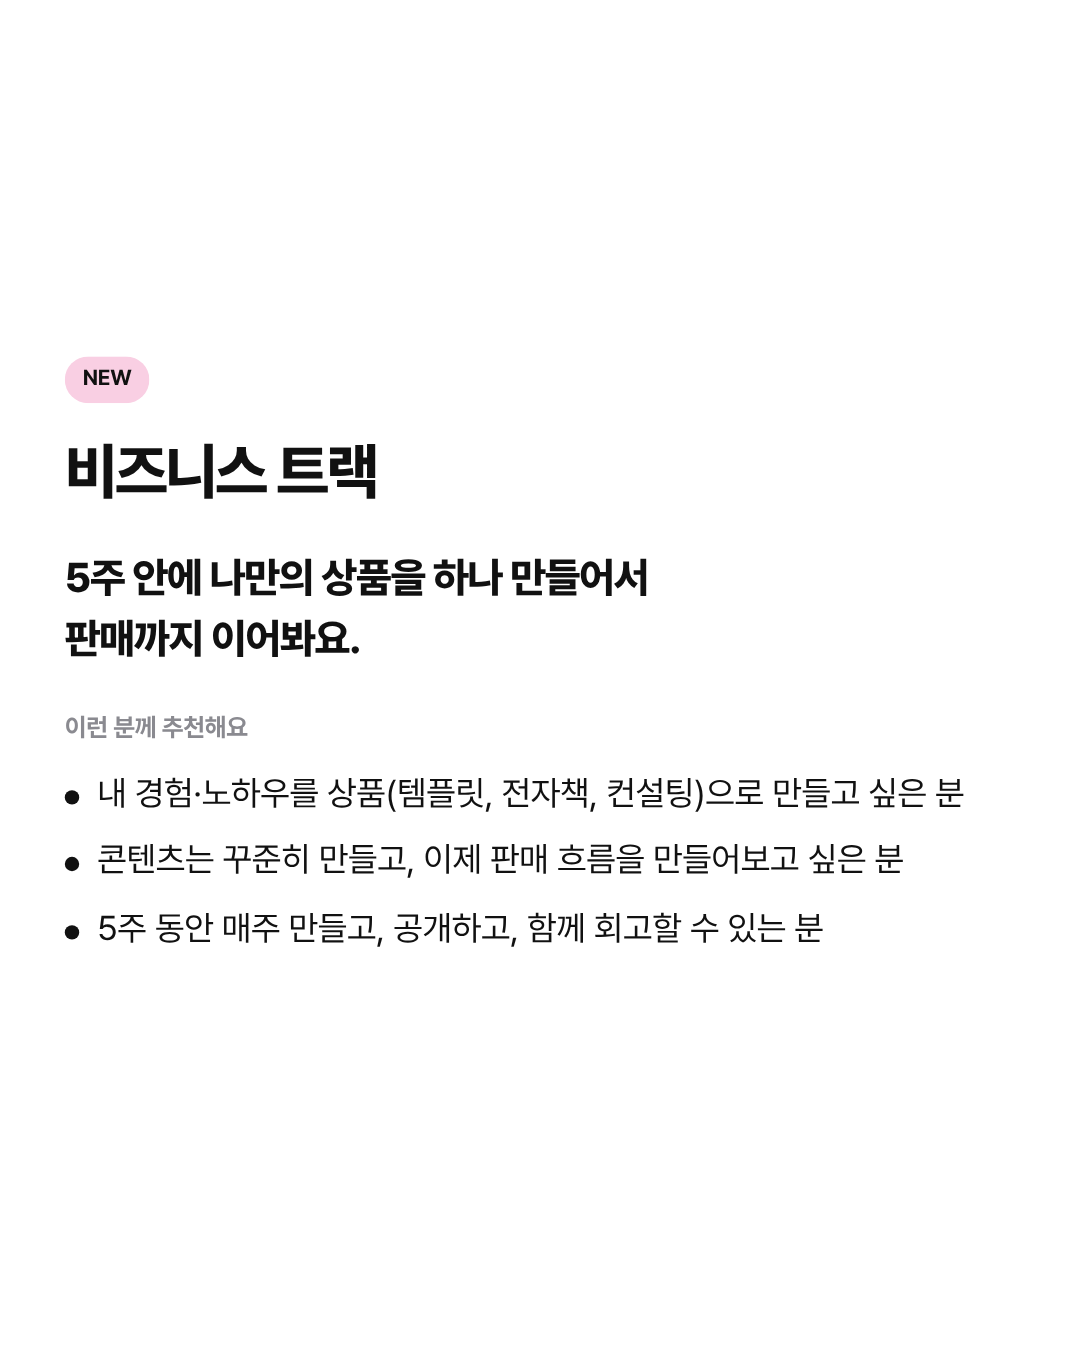
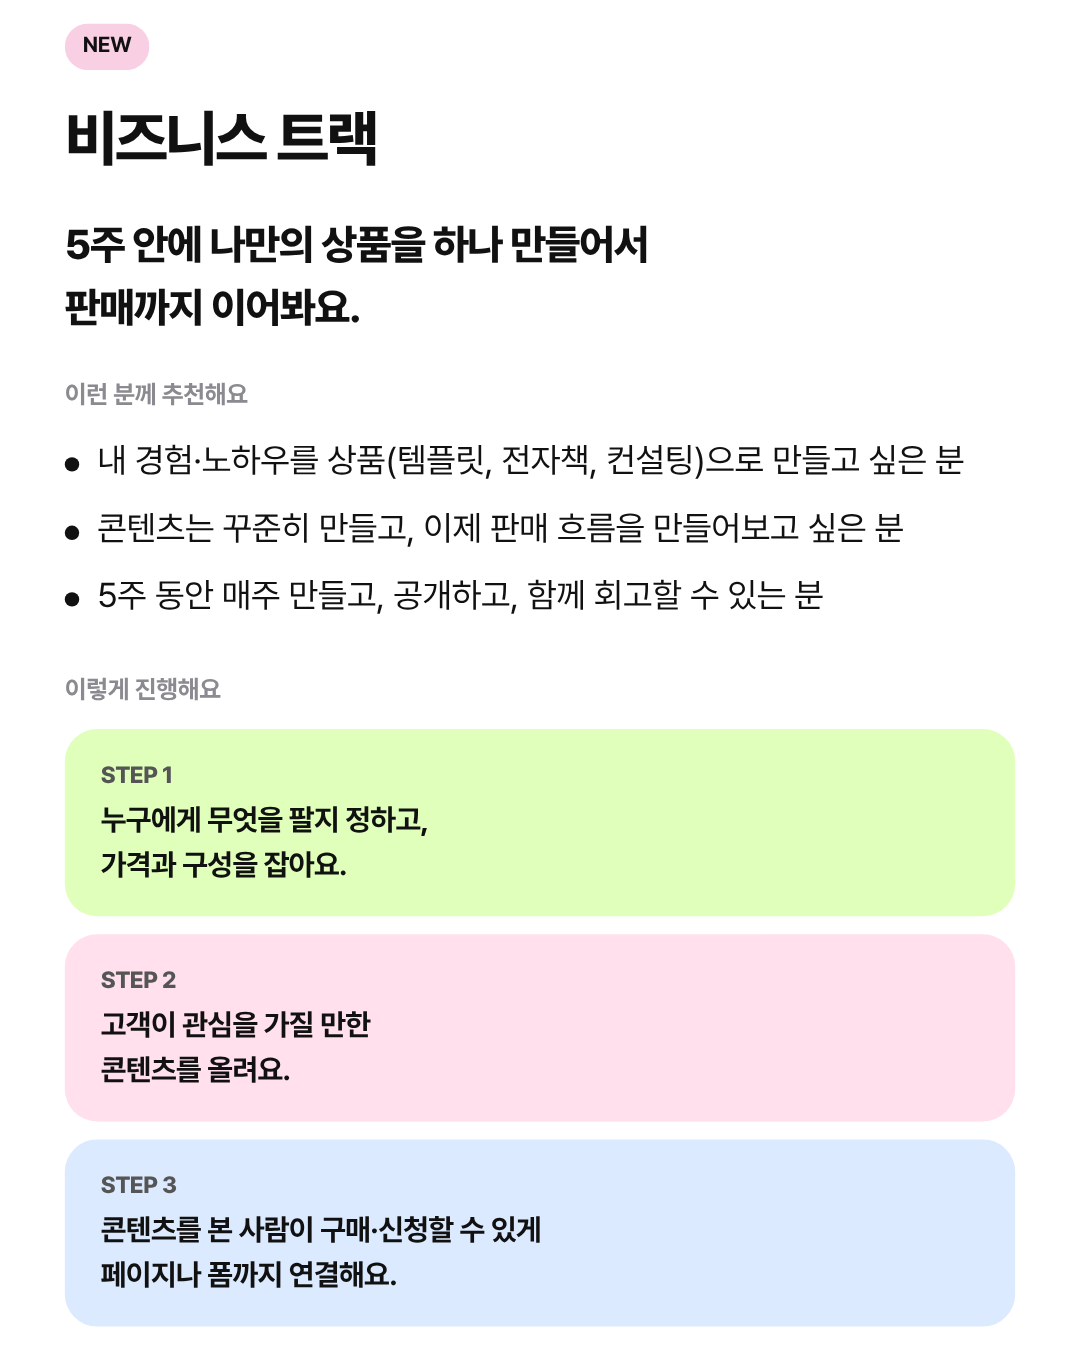
일반 트랙 활동 태그 제거, 비즈니스 트랙 진행 방식 추가
Claude-Session: https://claude.ai/code/session_01XqYr6RvsLFwt1wzFyjbYPu

diff --git a/cardnews/render_page_scenes.js b/cardnews/render_page_scenes.js
@@ -148,7 +148,7 @@ const SCHED_CSS = '#schedule h2{font-size:34px} #schedule .hd{margin-bottom:16px
       <div class="tk biz2"><span class="badge new">NEW</span><h3>비즈니스 트랙</h3><p>5주 안에 내 상품 하나를 만들고, 판매를 열어봅니다. 소수로 진행해요.</p><ul class="chk"><li>상품 구성 · 가격 설계</li><li>판매 콘텐츠 · 구매/신청 페이지</li><li>4주차 판매 시작</li><li>첫 판매 회고 · 다음 액션 정리</li></ul></div></div>` });
 
     // 7b 일반 트랙: 간결하게(추천 대상 + 활동만, 커리큘럼 제외)
-    const col = (name, tag, rec, act) => `<div class="gcol"><h3>${name}</h3><p class="gt">${tag}</p><p class="gl">이런 분께 추천해요</p><ul class="chk">${rec.map(x => `<li>${x}</li>`).join('')}</ul><div class="pills">${act.map(x => `<span>${x}</span>`).join('')}</div></div>`;
+    const col = (name, tag, rec, act) => `<div class="gcol"><h3>${name}</h3><p class="gt">${tag}</p><p class="gl">이런 분께 추천해요</p><ul class="chk">${rec.map(x => `<li>${x}</li>`).join('')}</ul></div>`;
     await customStill(b, '07b_레클에는 2-track이 있어요_일반 트랙', { W: 640, H: 800,
       css: '#cs{padding:44px 32px} #cs .top{margin-bottom:22px} #cs .top h2{font-size:34px;font-weight:800;letter-spacing:-.045em;margin:10px 0 8px} #cs .top p{font-size:16px;color:#4a4a52;margin:0;line-height:1.55} #cs .g2{display:grid;grid-template-columns:1fr 1fr;gap:14px} #cs .gcol{background:#f6f6f7;border-radius:22px;padding:24px 22px 22px} #cs .gcol h3{font-size:26px;margin:0 0 6px;letter-spacing:-.04em} #cs .gt{font-size:14.5px;font-weight:700;line-height:1.45;margin:0 0 18px;color:#4a4a52} #cs .gl{font-size:13px;font-weight:700;color:#8a8a90;margin:0 0 10px} #cs .chk{margin:0 0 22px;gap:9px} #cs .chk li{font-size:15.5px;line-height:1.5;padding-left:18px;color:#111} #cs .chk li::before{width:7px;height:7px;top:.7em} #cs .pills{display:flex;flex-wrap:wrap;gap:7px} #cs .pills span{background:#fff;border-radius:99px;padding:7px 13px;font-size:14px;font-weight:700}',
       html: `<div class="top"><span class="badge req">비기너 / 빌더</span><h2>일반 트랙</h2><p>내 이야기를 콘텐츠로 만들고,<br>꾸준히 운영할 방향을 잡아요.</p></div><div class="g2">`
@@ -157,9 +157,9 @@ const SCHED_CSS = '#schedule h2{font-size:34px} #schedule .hd{margin-bottom:16px
 
     // 7c 비즈니스 트랙: 간결하게
     await customStill(b, '07c_레클에는 2-track이 있어요_비즈니스 트랙', { W: 600, H: 750,
-      css: '#cs{padding:44px 36px} #cs h2{font-size:34px;font-weight:800;letter-spacing:-.045em;margin:10px 0 14px} #cs .lead{font-size:23px;line-height:1.5;font-weight:800;margin:0 0 20px;letter-spacing:-.03em} #cs .ex{font-size:14.5px;font-weight:700;color:#3b6300;background:#e0ffba;border-radius:12px;padding:10px 14px;margin:-10px 0 22px;align-self:flex-start} #cs .sm{font-size:15px;color:#8a8a90;margin:0 0 26px;font-weight:600} #cs .gh{font-size:14px;font-weight:700;color:#8a8a90;margin:0 0 10px} #cs .chk{margin:0 0 22px;gap:8px} #cs .chk li{font-size:19px;line-height:1.55;color:#111} #cs .chk li::before{top:.68em} #cs .tline{margin:4px 0 0} #cs .tline li{padding:0 0 11px 32px} #cs .tline li:last-child{padding-bottom:0} #cs .tline h4{font-size:17.5px;margin:1px 0 0;letter-spacing:-.03em} #cs .tline .wl{font-size:12.5px} #cs .tline li::after{top:20px;left:5px} #cs .tline li::before{width:12px;height:12px;border-width:2.5px}',
+      css: '#cs{padding:44px 36px} #cs h2{font-size:34px;font-weight:800;letter-spacing:-.045em;margin:10px 0 14px} #cs .lead{font-size:23px;line-height:1.5;font-weight:800;margin:0 0 20px;letter-spacing:-.03em} #cs .ex{font-size:14.5px;font-weight:700;color:#3b6300;background:#e0ffba;border-radius:12px;padding:10px 14px;margin:-10px 0 22px;align-self:flex-start} #cs .sm{font-size:15px;color:#8a8a90;margin:0 0 26px;font-weight:600} #cs .gh{font-size:14px;font-weight:700;color:#8a8a90;margin:0 0 10px} #cs .chk{margin:0 0 26px;gap:8px} #cs .steps{display:grid;gap:10px} #cs .steps div{border-radius:18px;padding:16px 20px;font-size:16.5px;line-height:1.5;font-weight:700;letter-spacing:-.02em} #cs .steps b{display:block;font-size:13px;color:#555;margin-bottom:3px;font-weight:800} #cs .chk li{font-size:19px;line-height:1.55;color:#111} #cs .chk li::before{top:.68em} #cs .tline{margin:4px 0 0} #cs .tline li{padding:0 0 11px 32px} #cs .tline li:last-child{padding-bottom:0} #cs .tline h4{font-size:17.5px;margin:1px 0 0;letter-spacing:-.03em} #cs .tline .wl{font-size:12.5px} #cs .tline li::after{top:20px;left:5px} #cs .tline li::before{width:12px;height:12px;border-width:2.5px}',
       html: `<span class="badge new">NEW</span><h2>비즈니스 트랙</h2><p class="lead">5주 안에 나만의 상품을 하나 만들어서<br>판매까지 이어봐요.</p>
-      <p class="gh">이런 분께 추천해요</p><ul class="chk"><li>내 경험·노하우를 상품(템플릿, 전자책, 컨설팅)으로 만들고 싶은 분</li><li>콘텐츠는 꾸준히 만들고, 이제 판매 흐름을 만들어보고 싶은 분</li><li>5주 동안 매주 만들고, 공개하고, 함께 회고할 수 있는 분</li></ul>` });
+      <p class="gh">이런 분께 추천해요</p><ul class="chk"><li>내 경험·노하우를 상품(템플릿, 전자책, 컨설팅)으로 만들고 싶은 분</li><li>콘텐츠는 꾸준히 만들고, 이제 판매 흐름을 만들어보고 싶은 분</li><li>5주 동안 매주 만들고, 공개하고, 함께 회고할 수 있는 분</li></ul><p class="gh">이렇게 진행해요</p><div class="steps"><div style="background:#e0ffba"><b>STEP 1</b>누구에게 무엇을 팔지 정하고,<br>가격과 구성을 잡아요.</div><div style="background:#ffe0ec"><b>STEP 2</b>고객이 관심을 가질 만한<br>콘텐츠를 올려요.</div><div style="background:#dbeafe"><b>STEP 3</b>콘텐츠를 본 사람이 구매·신청할 수 있게<br>페이지나 폼까지 연결해요.</div></div>` });
   }
 
   // 8 마지막 장표 (모션): 글자 단위 등장 + 레이어 카드가 쌓이는 배경 + 형광펜 + 흐르는 모토 띠 + 느린 줌
